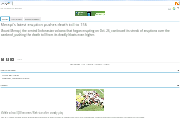
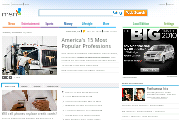
Thumbnail asset and algorithm tweak
Bug: 3203597
 This update replaces the preloaded thumbnails with the desktop
 versions of the sites rather than the mobile one. It also corrects
 the thumbnail generation behavior to prevent stretching.

diff --git a/src/com/android/browser/Controller.java b/src/com/android/browser/Controller.java
@@ -1776,25 +1776,23 @@ public class Controller
         // best scale factor
         int thumbnailWidth = thumbnail.getWidth();
         int thumbnailHeight = thumbnail.getHeight();
-        float scaleFactorX = 1.0f;
-        float scaleFactorY = 1.0f;
+        float scaleFactor = 1.0f;
         if (thumbnailWidth > 0) {
-            scaleFactorX = (float) width / (float)thumbnailWidth;
+            scaleFactor = (float) width / (float)thumbnailWidth;
         } else {
             return null;
         }
+
         if (view.getWidth() > view.getHeight() &&
                 thumbnailHeight < view.getHeight() && thumbnailHeight > 0) {
             // If the device is in landscape and the page is shorter
-            // than the height of the view, stretch the thumbnail to fill the
-            // space.
-            scaleFactorY = (float) height / (float)thumbnailHeight;
-        } else {
-            // In the portrait case, this looks nice.
-            scaleFactorY = scaleFactorX;
+            // than the height of the view, center the thumnail and crop the sides
+            scaleFactor = (float) height / (float)thumbnailHeight;
+            float wx = (thumbnailWidth * scaleFactor) - width;
+            canvas.translate((int) -(wx / 2), 0);
         }
 
-        canvas.scale(scaleFactorX, scaleFactorY);
+        canvas.scale(scaleFactor, scaleFactor);
 
         thumbnail.draw(canvas);
         return bm;
